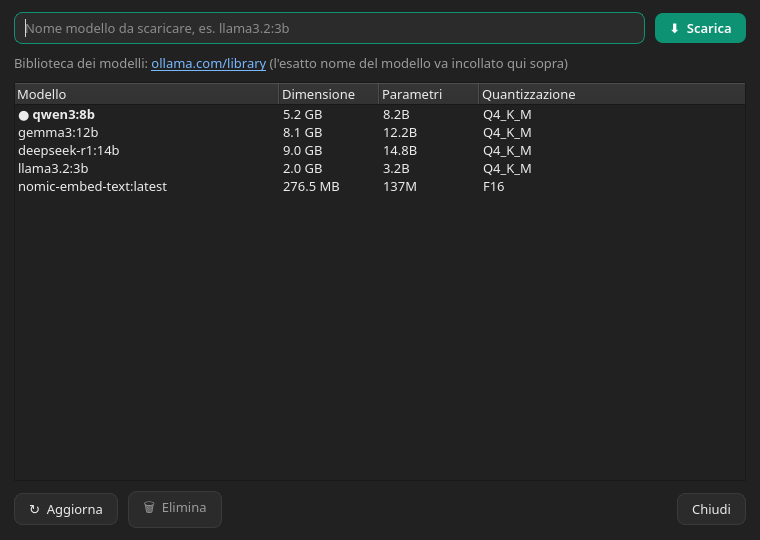
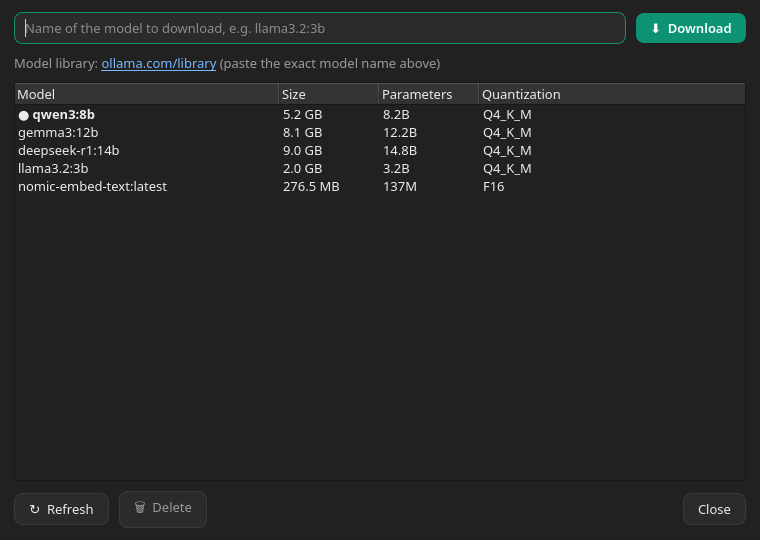
docs: screenshot di AppStream in inglese per Flathub
scripts/screenshots.py accetta --lang (en predefinito → docs/screenshots/,
it → docs/screenshots/it/): l'interfaccia e le chat di esempio seguono la
lingua scelta. I quattro screenshot del metainfo sono rigenerati in
inglese con gli stessi soggetti e dimensioni.

diff --git a/scripts/screenshots.py b/scripts/screenshots.py
@@ -1,7 +1,11 @@
 #!/usr/bin/env python3
 """Screenshot per i metadati AppStream e il README: docs/screenshots/*.png.
 
-Uso:  python3 scripts/screenshots.py
+Uso:  python3 scripts/screenshots.py            # inglese → docs/screenshots/
+      python3 scripts/screenshots.py --lang it  # → docs/screenshots/it/
+
+Flathub vuole gli screenshot in inglese: è la lingua predefinita. Con
+--lang l'interfaccia (OLLADESK_LANG) e le chat di esempio cambiano lingua.
 
 Tutto è isolato: configurazione in una cartella temporanea con chat di
 esempio, un finto Ollama locale con nomi di modelli realistici, finestre
@@ -22,11 +26,17 @@ import threading
 import time
 from http.server import BaseHTTPRequestHandler, ThreadingHTTPServer
 
+LANG = sys.argv[sys.argv.index("--lang") + 1] if "--lang" in sys.argv else "en"
+if LANG not in ("en", "it"):
+    sys.exit(f"lingua non supportata: {LANG} (en, it)")
+
 os.environ["QT_QPA_PLATFORM"] = "offscreen"
 os.environ["XDG_CONFIG_HOME"] = tempfile.mkdtemp(prefix="olladesk_shots_")
+os.environ["OLLADESK_LANG"] = LANG   # prima di importare olladesk
 
 ROOT = os.path.dirname(os.path.dirname(os.path.abspath(__file__)))
-OUT = os.path.join(ROOT, "docs", "screenshots")
+OUT_REL = os.path.join("docs", "screenshots", *([] if LANG == "en" else [LANG]))
+OUT = os.path.join(ROOT, OUT_REL)
 sys.path.insert(0, ROOT)
 
 from PySide6.QtCore import QEventLoop, QTimer  # noqa: E402
@@ -77,7 +87,9 @@ def free_port() -> int:
 
 # --------------------------------------------------------- chat di esempio
 
-CODE_ANSWER = """Ecco uno script che legge la data di scatto dai metadati EXIF e \
+TEXTS = {"it": {}, "en": {}}
+
+TEXTS["it"]["code_answer"] = """Ecco uno script che legge la data di scatto dai metadati EXIF e \
 rinomina le foto nel formato `AAAA-MM-GG_HHMMSS.jpg`:
 
 ```python
@@ -108,7 +120,7 @@ for foto in sorted(Path("Foto").glob("*.jpg")):
 
 Serve Pillow: `pip install pillow`."""
 
-WEB_ANSWER = """Le novità principali di **Python 3.14** sono:
+TEXTS["it"]["web_answer"] = """Le novità principali di **Python 3.14** sono:
 
 - **Template string (PEP 750)**: il prefisso `t"..."` crea un oggetto \
 `Template`, utile per l'escape sicuro di HTML e SQL [1].
@@ -118,6 +130,73 @@ funzionano senza virgolette [1].
 ufficialmente [2].
 - **Modulo `concurrent.interpreters`** (PEP 734): più interpreti nella \
 libreria standard [3]."""
+
+TEXTS["it"].update(
+    chats=["Traduci l'email al fornitore", "Spiegami i decoratori in Python",
+           "Riassunto del contratto d'affitto", "Ricetta della pizza in teglia"],
+    web_title="Novità di Python 3.14",
+    web_question="Quali sono le novità di Python 3.14?",
+    web_thinking="L'utente chiede le novità di Python 3.14…",
+    code_title="Rinominare le foto per data",
+    code_question="Scrivi uno script Python che rinomina le foto di una cartella "
+                  "con la data di scatto",
+    code_thinking="Serve leggere il tag EXIF DateTimeOriginal…",
+)
+
+TEXTS["en"]["code_answer"] = """Here is a script that reads the capture date from the EXIF \
+metadata and renames the photos as `YYYY-MM-DD_HHMMSS.jpg`:
+
+```python
+from datetime import datetime
+from pathlib import Path
+
+from PIL import Image
+
+EXIF_DATE_TAKEN = 36867
+
+
+def date_taken(photo: Path) -> datetime | None:
+    with Image.open(photo) as img:
+        value = img.getexif().get_ifd(0x8769).get(EXIF_DATE_TAKEN)
+    return datetime.strptime(value, "%Y:%m:%d %H:%M:%S") if value else None
+
+
+for photo in sorted(Path("Photos").glob("*.jpg")):
+    taken = date_taken(photo)
+    if taken:
+        photo.rename(photo.with_name(taken.strftime("%Y-%m-%d_%H%M%S") + ".jpg"))
+```
+
+**How it works**
+
+1. `getexif()` reads the metadata, and tag `36867` is the original capture date.
+2. Photos without EXIF (screenshots, downloaded images) keep their name.
+
+It needs Pillow: `pip install pillow`."""
+
+TEXTS["en"]["web_answer"] = """The main new features of **Python 3.14** are:
+
+- **Template strings (PEP 750)**: the `t"..."` prefix creates a `Template` \
+object, useful for safely escaping HTML and SQL [1].
+- **Deferred evaluation of annotations (PEP 649)**: forward references \
+work without quotes [1].
+- **Interpreter without the GIL**: the *free-threaded* build is officially \
+supported [2].
+- **The `concurrent.interpreters` module** (PEP 734): multiple interpreters \
+in the standard library [3]."""
+
+TEXTS["en"].update(
+    chats=["Translate the email to the supplier", "Explain Python decorators",
+           "Summary of the rental agreement", "Sheet pan pizza recipe"],
+    web_title="What's new in Python 3.14",
+    web_question="What's new in Python 3.14?",
+    web_thinking="The user is asking about the new features of Python 3.14…",
+    code_title="Rename photos by date",
+    code_question="Write a Python script that renames the photos in a folder "
+                  "by the date they were taken",
+    code_thinking="I need to read the EXIF DateTimeOriginal tag…",
+)
+TX = TEXTS[LANG]
 
 WEB_RESULTS = [
     ("What's new in Python 3.14 — Python documentation",
@@ -134,33 +213,29 @@ WEB_RESULTS = [
 
 def write_chats() -> tuple[str, str]:
     t = time.time()
-    chats = [
-        ("Traduci l'email al fornitore", "gemma3:12b", 9 * 86400),
-        ("Spiegami i decoratori in Python", "qwen3:8b", 6 * 86400),
-        ("Riassunto del contratto d'affitto", "gemma3:12b", 3 * 86400),
-        ("Ricetta della pizza in teglia", "llama3.2:3b", 2 * 86400),
-    ]
+    chats = zip(TX["chats"], ["gemma3:12b", "qwen3:8b", "gemma3:12b", "llama3.2:3b"],
+                [9 * 86400, 6 * 86400, 3 * 86400, 2 * 86400])
     for title, model, age in chats:
         config.save_chat({"id": config.new_chat_id(), "title": title, "model": model,
                           "updated": t - age, "messages": [
                               {"role": "user", "display": title, "ts": t - age},
                               {"role": "assistant", "content": "…", "ts": t - age + 20}]})
     web_id = config.new_chat_id()
-    q = "Quali sono le novità di Python 3.14?"
-    config.save_chat({"id": web_id, "title": "Novità di Python 3.14", "model": "qwen3:8b",
+    q = TX["web_question"]
+    config.save_chat({"id": web_id, "title": TX["web_title"], "model": "qwen3:8b",
                       "updated": t - 3600, "messages": [
                           {"role": "user", "display": q, "ts": t - 3700, "web": True,
                            "web_block": web_search.format_results(q, WEB_RESULTS)},
-                          {"role": "assistant", "content": WEB_ANSWER, "ts": t - 3600,
-                           "thinking": "L'utente chiede le novità di Python 3.14…",
+                          {"role": "assistant", "content": TX["web_answer"], "ts": t - 3600,
+                           "thinking": TX["web_thinking"],
                            "stats": "312 token · 41.7 tok/s · 7.5 s"}]})
     code_id = config.new_chat_id()
-    q = "Scrivi uno script Python che rinomina le foto di una cartella con la data di scatto"
-    config.save_chat({"id": code_id, "title": "Rinominare le foto per data", "model": "qwen3:8b",
+    q = TX["code_question"]
+    config.save_chat({"id": code_id, "title": TX["code_title"], "model": "qwen3:8b",
                       "updated": t - 60, "messages": [
                           {"role": "user", "display": q, "ts": t - 120},
-                          {"role": "assistant", "content": CODE_ANSWER, "ts": t - 60,
-                           "thinking": "Serve leggere il tag EXIF DateTimeOriginal…",
+                          {"role": "assistant", "content": TX["code_answer"], "ts": t - 60,
+                           "thinking": TX["code_thinking"],
                            "stats": "486 token · 43.2 tok/s · 11.2 s"}]})
     return code_id, web_id
 
@@ -296,7 +371,7 @@ def main() -> int:
 
     def save(widget, name):
         widget.grab().save(os.path.join(OUT, name))
-        print("scritto", os.path.join("docs", "screenshots", name))
+        print("scritto", os.path.join(OUT_REL, name))
 
     win = MainWindow()
     win.resize(1280, 800)
@@ -314,7 +389,7 @@ def main() -> int:
     win._open_chat(web_id)
     wait(300)
     for b in win.findChildren(QToolButton):
-        if "Fonti" in b.text() and b.text().startswith("▸"):
+        if "🌐" in b.text() and b.text().startswith("▸"):   # «Fonti», in ogni lingua
             b.click()   # apre l'elenco delle fonti
     wait(500)
     save(win, "web-search.png")
@@ -353,7 +428,7 @@ def main() -> int:
     if "err" in result:
         print("telefono:", result["err"], file=sys.stderr)
         return 1
-    print("scritto docs/screenshots/phone.png")
+    print("scritto", os.path.join(OUT_REL, "phone.png"))
     win._really_quit = True
     win.close()
     srv.shutdown()
